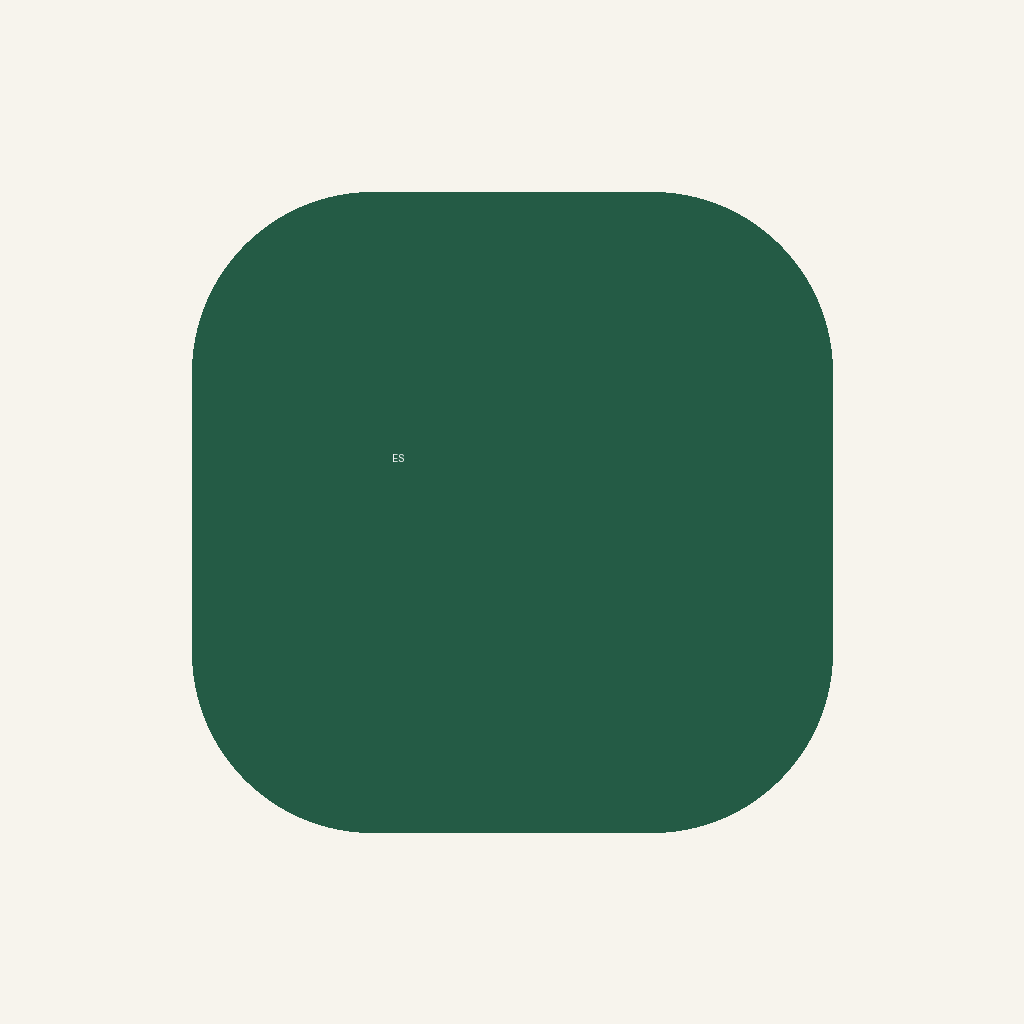
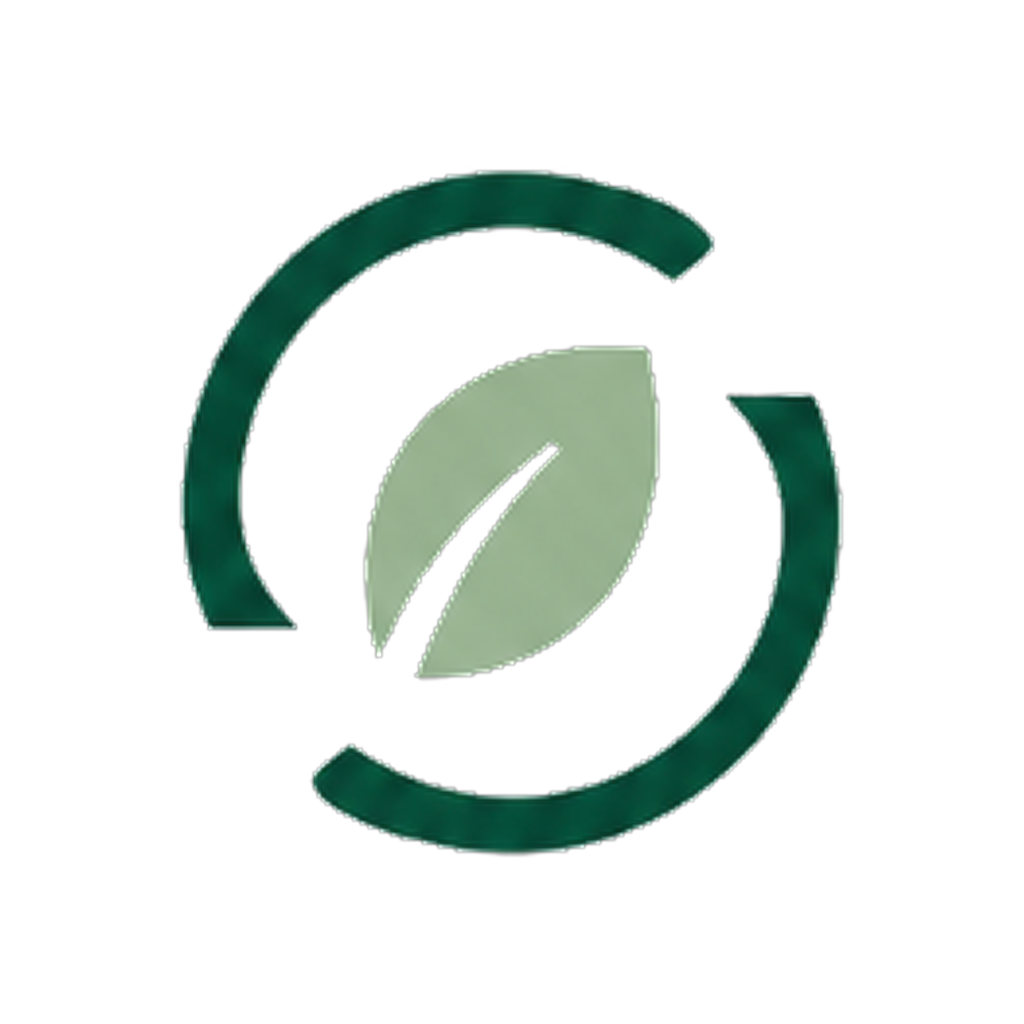
Add local notification

diff --git a/src/screens/DeviceLabScreen.tsx b/src/screens/DeviceLabScreen.tsx
@@ -1,0 +1,41 @@
+import React, { useEffect, useState } from 'react';
+import { StyleSheet, Text, View } from 'react-native';
+import * as Battery from 'expo-battery';
+import { Accelerometer, Gyroscope } from 'expo-sensors';
+import { Screen } from '../components/Screen';
+import { Card } from '../components/Card';
+import { theme } from '../theme/theme';
+
+export function DeviceLabScreen() {
+  const [battery, setBattery] = useState<number | null>(null);
+  const [accel, setAccel] = useState({ x: 0, y: 0, z: 0 });
+  const [gyro, setGyro] = useState({ x: 0, y: 0, z: 0 });
+
+  useEffect(() => {
+    Battery.getBatteryLevelAsync().then(setBattery).catch(() => setBattery(null));
+    Accelerometer.setUpdateInterval(900);
+    Gyroscope.setUpdateInterval(900);
+    const a = Accelerometer.addListener(setAccel);
+    const g = Gyroscope.addListener(setGyro);
+    return () => { a.remove(); g.remove(); };
+  }, []);
+
+  return (
+    <Screen title="Device signals" subtitle="A compact view of the mobile capabilities EcoSort can use responsibly.">
+      <Metric title="Battery" value={battery === null ? 'Unavailable' : `${Math.round(battery * 100)}%`} detail="Useful for lightweight, energy-aware experiences." />
+      <Metric title="Accelerometer" value={`${accel.x.toFixed(2)} · ${accel.y.toFixed(2)} · ${accel.z.toFixed(2)}`} detail="Motion values update gently for demonstration." />
+      <Metric title="Gyroscope" value={`${gyro.x.toFixed(2)} · ${gyro.y.toFixed(2)} · ${gyro.z.toFixed(2)}`} detail="Rotation data confirms sensor access." />
+    </Screen>
+  );
+}
+
+function Metric({ title, value, detail }: { title: string; value: string; detail: string }) {
+  return <Card><View style={styles.row}><Text style={styles.title}>{title}</Text><Text style={styles.value}>{value}</Text></View><Text style={styles.detail}>{detail}</Text></Card>;
+}
+
+const styles = StyleSheet.create({
+  row: { gap: 8 },
+  title: { ...theme.typography.label, color: theme.colors.textSubtle, textTransform: 'uppercase' },
+  value: { ...theme.typography.h2, color: theme.colors.text },
+  detail: { ...theme.typography.small, color: theme.colors.textMuted, marginTop: 8 },
+});

diff --git a/src/services/notificationService.ts b/src/services/notificationService.ts
@@ -1,0 +1,27 @@
+import * as Notifications from 'expo-notifications';
+import { permissionErrorMessage } from '../utils/errorMessages';
+
+Notifications.setNotificationHandler({
+  handleNotification: async () => ({
+    shouldShowAlert: true,
+    shouldPlaySound: false,
+    shouldSetBadge: false,
+    shouldShowBanner: true,
+    shouldShowList: true,
+  }),
+});
+
+export async function scheduleRecyclingReminder(): Promise<string> {
+  const permission = await Notifications.requestPermissionsAsync();
+  if (!permission.granted) throw new Error(permissionErrorMessage('notification'));
+
+  await Notifications.scheduleNotificationAsync({
+    content: {
+      title: 'EcoSort reminder',
+      body: 'Take a moment to record one recycling action today.',
+    },
+    trigger: { seconds: 5 },
+  });
+
+  return new Date().toISOString();
+}

diff --git a/App.tsx b/App.tsx
@@ -14,8 +14,9 @@ import { createHistoryEntry } from './src/services/historyWorkflowService';
 import { OnboardingScreen } from './src/screens/OnboardingScreen';
 import { ScannerScreen } from './src/screens/ScannerScreen';
 import { LocationScreen } from './src/screens/LocationScreen';
+import { DeviceLabScreen } from './src/screens/DeviceLabScreen';
+import { scheduleRecyclingReminder } from './src/services/notificationService';
 
-const scheduleRecyclingReminder = async () => new Date().toISOString();
 const tabItems = [
   { key: 'home' as AppScreen, label: 'Home', icon: '⌂' },
   { key: 'search' as AppScreen, label: 'Search', icon: '⌕' },
@@ -88,10 +89,10 @@ export default function App() {
       case 'scan': return <ScannerScreen onSaveResult={handleSaveResult} />;
       case 'history': return <HistoryScreen history={history} onClear={handleClearHistory} />;
       case 'location': return <LocationScreen settings={settings} onChange={updateSettings} />;
-      case 'device': return <SettingsScreen settings={settings} onChange={updateSettings} navigate={navigate} />;
+      case 'device': return <DeviceLabScreen />;
       case 'account': return <SettingsScreen settings={settings} onChange={updateSettings} navigate={navigate} />;
       case 'settings':
-      default: return <SettingsScreen settings={settings} onChange={updateSettings} navigate={navigate} onScheduleReminder={undefined} />;
+      default: return <SettingsScreen settings={settings} onChange={updateSettings} navigate={navigate} onScheduleReminder={handleScheduleReminder} />;
     }
   };
 

diff --git a/README.md b/README.md
@@ -4,9 +4,9 @@ EcoSort is a React Native and Expo mobile app for privacy-aware recycling guidan
 
 ## Current snapshot
 
-**Commit 08** — `feat: integrate expo-location and council detection`
+**Commit 10** — `feat: add local notification reminders`
 
-Integrate location permission and council context detection for location-aware guidance.
+Add local notification scheduling for recycling reminders.
 
 ## Features in this snapshot
 
@@ -17,6 +17,8 @@ Integrate location permission and council context detection for location-aware g
 - Permission-first onboarding
 - Camera scanner workflow
 - Location-based council context
+- Battery and sensor diagnostics
+- Local recycling reminders
 
 ## Requirements
 